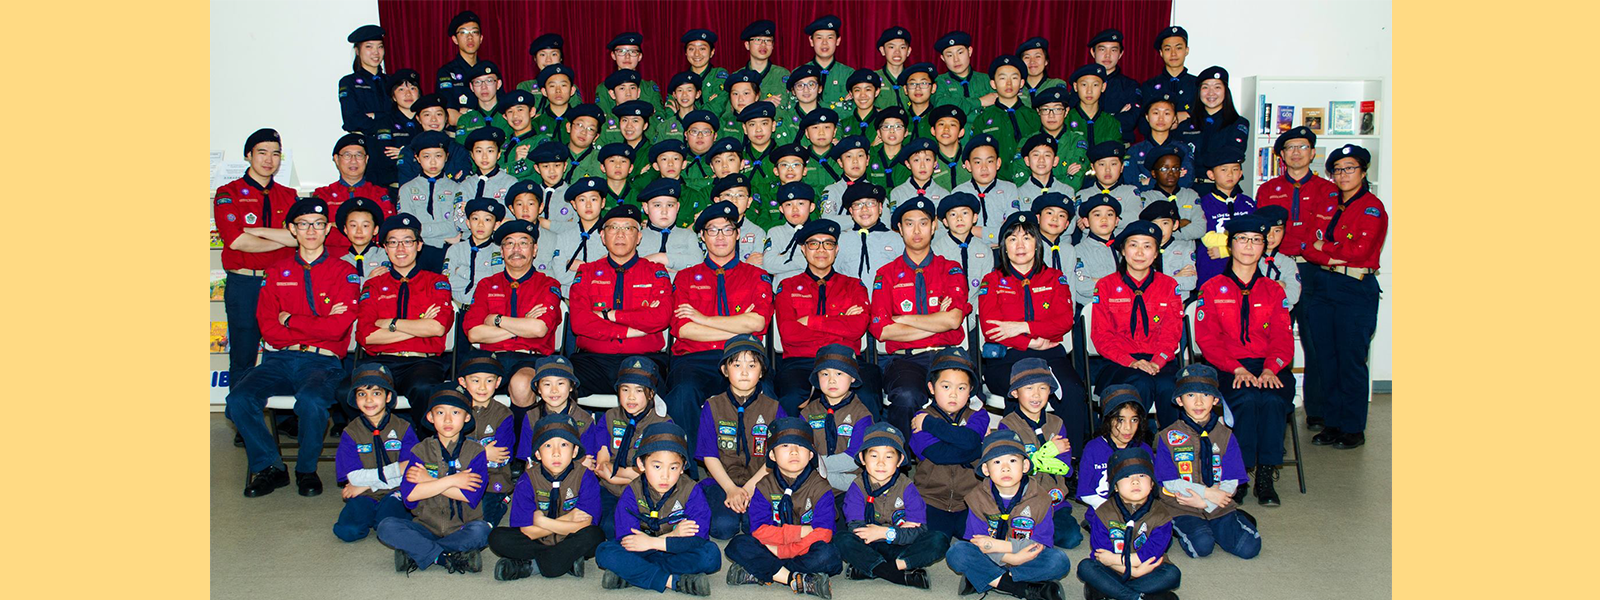
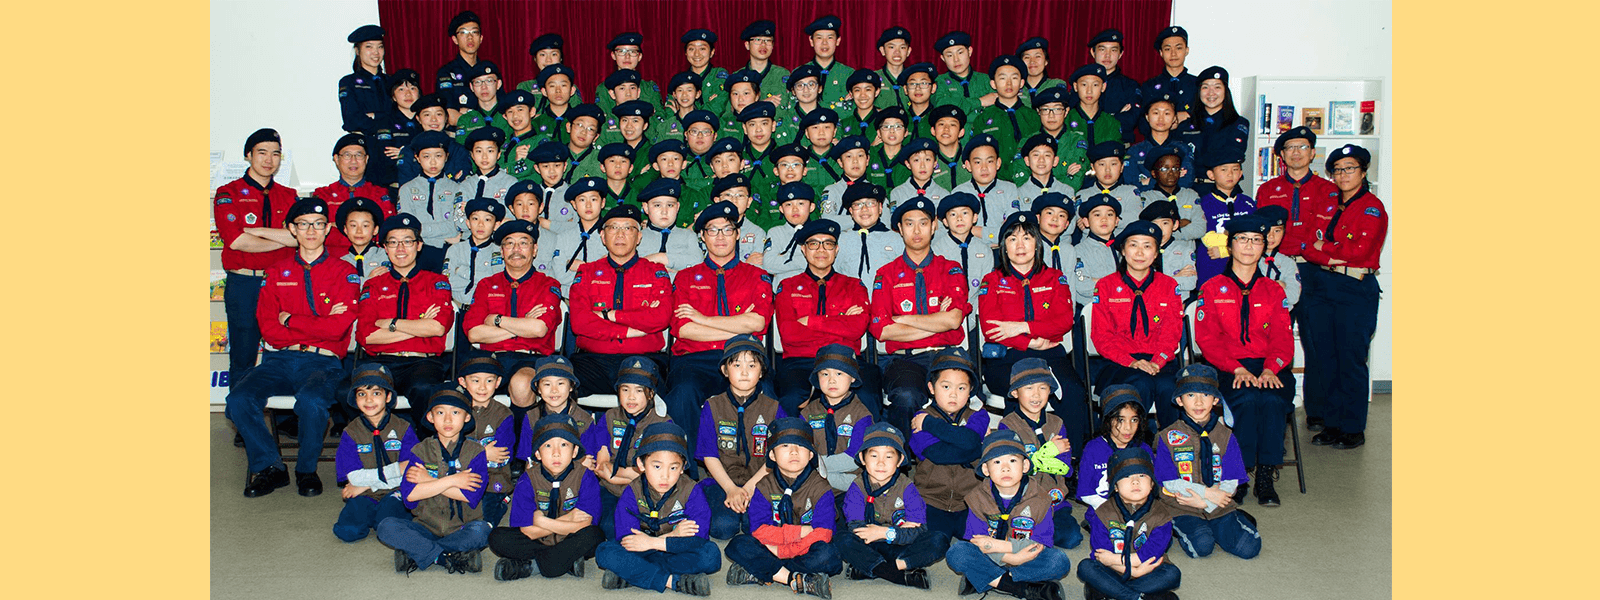
-Resized images -made quick strip padding smaller

diff --git a/stylesheets/scout33.css b/stylesheets/scout33.css
@@ -241,6 +241,8 @@ section#carousel{
 
 section#quick-strip{
 	background-color: #FFFFFF;
+	padding-top: 32px;
+	padding-bottom: 15px;
 }
 
 @media (min-width: 992px) {
